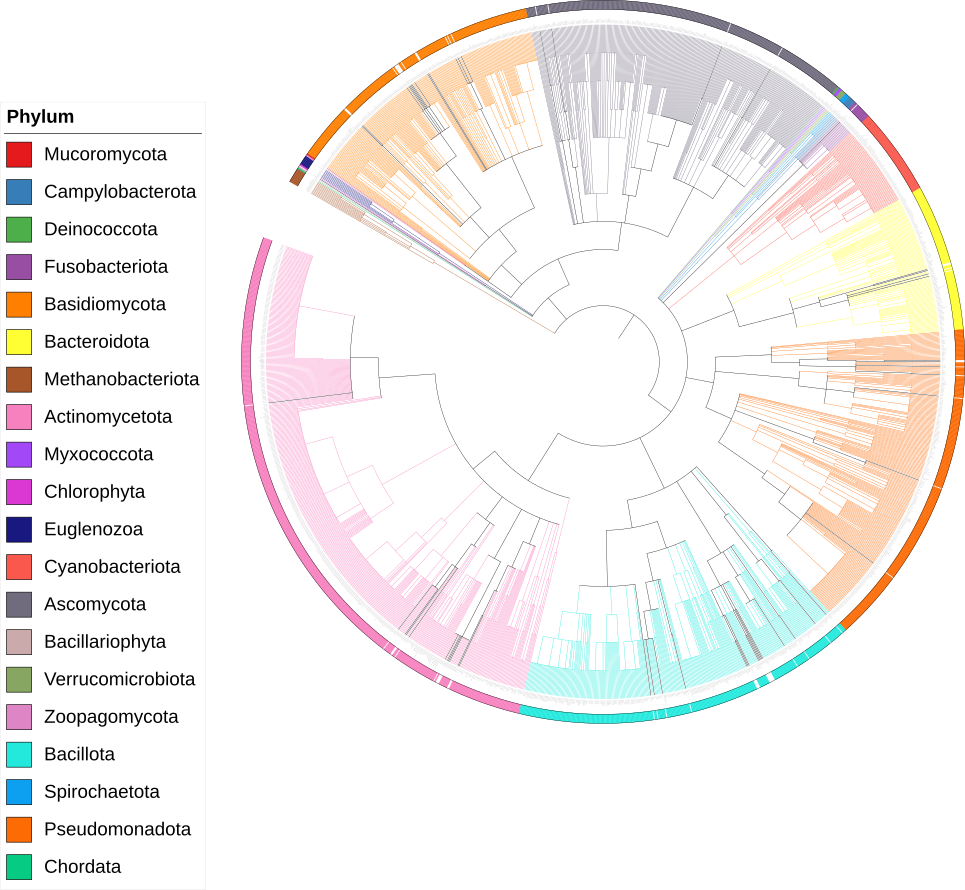
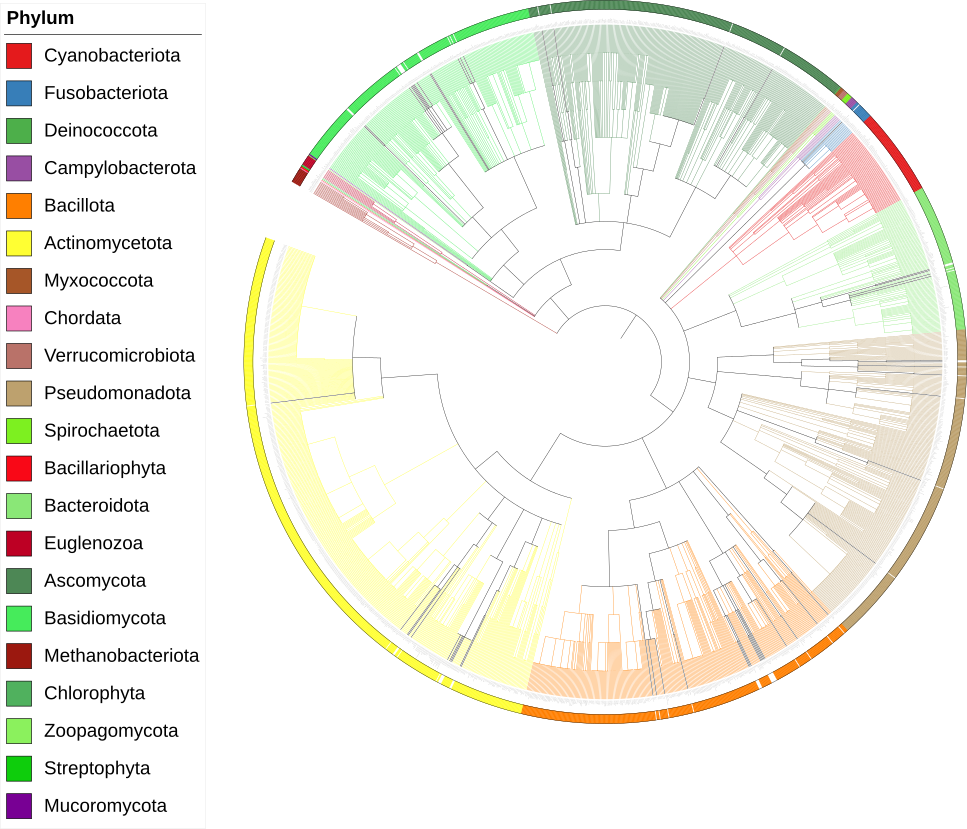
forgot import and updated figure

Changed region(s): [[0.2487, 0.0, 1.0, 0.8745], [0.0, 0.0, 0.2176, 0.9952]]

diff --git a/report/visualize_db_from_json.py b/report/visualize_db_from_json.py
@@ -2,6 +2,9 @@ import json
 from ete3 import Tree,NCBITaxa
 import argparse
 import random
+import matplotlib.pyplot as plt
+
+### TODO bug fix: in visualization if translated name contains a "in: " replace it with empty string as it messes up the syntax
 
 """
 Goal translate masst_tree.json to .nw files and create annotation file.
@@ -11,6 +14,7 @@ parser = argparse.ArgumentParser(description='Create Newick File for Visualizati
 parser.add_argument("--json", required=True, help='Path to the json file')
 parser.add_argument("--out_dir", "-o", required=True, help='Path to directory for output saving')
 parser.add_argument("--prefix", "-p", default="db", help='Prefix for filename')
+parser.add_argument("--color_map", "-cm", default="Set1", help='color map for tree coloring')
 args = parser.parse_args()
 
 # Load the JSON file
@@ -64,7 +68,71 @@ def get_phylum_name(ncbi, taxid:list):
     
     return None
 
-def create_annotation(out_dir:str, prefix: str, tree, ncbi):
+def create_annotation(out_dir:str, prefix: str,  tree, ncbi, color_map="Pastel1"):
+    """
+    Creates annotation file with random colors and annotates on phylum level
+    """
+    # Assign phylum names to leaf nodes
+    phylum_annotations = {}
+    for node in tree.traverse():
+        if node.is_leaf():  # Rename only leaf nodes
+            taxid = int(node.name)
+            phylum_name = get_phylum_name(ncbi, taxid)
+            node.name = ncbi.get_taxid_translator([taxid])[taxid]
+            if phylum_name:
+                phylum_annotations[node.name] = phylum_name
+
+    num_colors = len(set(phylum_annotations.values()))
+    cmap = plt.get_cmap(color_map)
+    colors = [cmap(i) for i in range(cmap.N-1)] # cmap.N size is + 1 for some reason
+    hex_colors = ["#{:02x}{:02x}{:02x}".format(int(r*255), int(g*255), int(b*255)) for r, g, b, _ in colors]
+     
+    # If there are more phyla than colors in the colormap, add random colors UNTESTED
+    if num_colors > cmap.N:
+        additional_colors = num_colors - len(colors)
+        for _ in range(additional_colors):
+            hex_colors.append("#{:06x}".format(random.randint(0, 0xFFFFFF)))
+
+    # Assign colors to each phylum
+    phylum_colors = {}
+    for phylum, color in zip(set(phylum_annotations.values()), hex_colors):
+        phylum_colors[phylum] = color
+
+
+    # # Generate random colors for each phylum
+    # phylum_colors = {}
+    # for phylum in set(phylum_annotations.values()):
+    #     phylum_colors[phylum] = "#{:06x}".format(random.randint(0, 0xFFFFFF)) #todo specify color palate
+
+    # Create the iTOL annotation file
+    with open(f"{out_dir}/{prefix}_itol_annotations.txt", "w") as f:
+        #f.write("\nTREE_COLORS\n")
+        f.write("DATASET_COLORSTRIP\n")
+        f.write("SEPARATOR TAB\n")
+        f.write("DATASET_LABEL\tPhylum Annotations\n")
+        f.write("COLOR\t#ff0000\n")
+        f.write("COLOR_BRANCHES\t1\n")
+        f.write("LEGEND_TITLE\tPhylum\n")
+        f.write("LEGEND_SHAPES\t{}\n".format("\t".join(["1"] * len(phylum_colors))))
+        f.write("LEGEND_COLORS\t{}\n".format("\t".join(phylum_colors.values())))
+        f.write("LEGEND_LABELS\t{}\n".format("\t".join(phylum_colors.keys())))
+        f.write("BORDER_WIDTH\t1\n")
+        f.write("BORDER_COLOR\t#000000\n")
+        f.write("SHOW_STRIP_LABELS\t1\n")
+        f.write("DATA\n")
+        f.write("#NODE_ID\tCOLOR\n")
+        for leaf_name, phylum_name in phylum_annotations.items():
+             f.write("{}\t{}\n".format(leaf_name, phylum_colors[phylum_name]))
+        
+        
+        # f.write("SEPARATOR TAB\n")
+        # f.write("DATA\n")
+        # f.write("#NODE_ID\tTYPE\tCOLOR\tLABEL_OR_STYLE\n")
+        # for leaf_name, phylum_name in phylum_annotations.items():
+        #     f.write("{}\trange\t{}\t{}\n".format(leaf_name, phylum_colors[phylum_name], phylum_name))
+
+
+def create_annotation_old(out_dir:str, prefix: str, tree, ncbi):
     """
     Creates annotation file with random colors and annotates on phylum level
     """
@@ -105,11 +173,11 @@ def create_annotation(out_dir:str, prefix: str, tree, ncbi):
 # create annotation
 ncbi = NCBITaxa()
 tree = Tree(f"{args.out_dir}/{args.prefix}_tree_from_json_taxID.nw")
-create_annotation(args.out_dir, args.prefix, tree, ncbi)
+create_annotation(args.out_dir, args.prefix, tree, ncbi, args.color_map)
 
 
 
-# python visualize_db_from_json.py --json "../data/microbe_masst_tree.json" -o "output" -p "microbe_json"
+# python visualize_db_from_json.py --json "../data/microbe_masst_tree.json" -o "output" -p "data_microbe_json"
 """
 /opt/conda/lib/python3.10/site-packages/ete3/ncbi_taxonomy/ncbiquery.py:243: UserWarning: taxid 335058 was translated into 93681
   warnings.warn("taxid %s was translated into %s" %(taxid, merged_conversion[taxid]))

diff --git a/report/visualize_database.py b/report/visualize_database.py
@@ -3,11 +3,13 @@ import pandas as pd
 from ete3 import NCBITaxa,Tree
 import argparse
 import random
+import matplotlib.pyplot as plt
 
 parser = argparse.ArgumentParser(description='Create Newick File for Visualization of the Taxnomic Tree.')
 parser.add_argument("--nw", required=True, help='Path to the newick file')
 parser.add_argument("--out_dir", "-o", required=True, help='Path to directory for output saving')
 parser.add_argument("--prefix", "-p", default="db", help='Prefix for filename')
+parser.add_argument("--color_map", "-cm", default="Set1", help='color map for tree coloring')
 args = parser.parse_args()
 
 # Path to your Newick file
@@ -55,7 +57,71 @@ def get_phylum_name(ncbi, taxid:list):
     
     return None
 
-def create_annotation(out_dir:str, prefix: str, tree, ncbi):
+def create_annotation(out_dir:str, prefix: str,  tree, ncbi, color_map="Pastel1"):
+    """
+    Creates annotation file with random colors and annotates on phylum level
+    """
+    # Assign phylum names to leaf nodes
+    phylum_annotations = {}
+    for node in tree.traverse():
+        if node.is_leaf():  # Rename only leaf nodes
+            taxid = int(node.name)
+            phylum_name = get_phylum_name(ncbi, taxid)
+            node.name = ncbi.get_taxid_translator([taxid])[taxid]
+            if phylum_name:
+                phylum_annotations[node.name] = phylum_name
+
+    num_colors = len(set(phylum_annotations.values()))
+    cmap = plt.get_cmap(color_map)
+    colors = [cmap(i) for i in range(cmap.N-1)] # cmap.N size is + 1 for some reason
+    hex_colors = ["#{:02x}{:02x}{:02x}".format(int(r*255), int(g*255), int(b*255)) for r, g, b, _ in colors]
+     
+    # If there are more phyla than colors in the colormap, add random colors UNTESTED
+    if num_colors > cmap.N:
+        additional_colors = num_colors - len(colors)
+        for _ in range(additional_colors):
+            hex_colors.append("#{:06x}".format(random.randint(0, 0xFFFFFF)))
+
+    # Assign colors to each phylum
+    phylum_colors = {}
+    for phylum, color in zip(set(phylum_annotations.values()), hex_colors):
+        phylum_colors[phylum] = color
+
+
+    # # Generate random colors for each phylum
+    # phylum_colors = {}
+    # for phylum in set(phylum_annotations.values()):
+    #     phylum_colors[phylum] = "#{:06x}".format(random.randint(0, 0xFFFFFF)) #todo specify color palate
+
+    # Create the iTOL annotation file
+    with open(f"{out_dir}/{prefix}_itol_annotations.txt", "w") as f:
+        #f.write("\nTREE_COLORS\n")
+        f.write("DATASET_COLORSTRIP\n")
+        f.write("SEPARATOR TAB\n")
+        f.write("DATASET_LABEL\tPhylum Annotations\n")
+        f.write("COLOR\t#ff0000\n")
+        f.write("COLOR_BRANCHES\t1\n")
+        f.write("LEGEND_TITLE\tPhylum\n")
+        f.write("LEGEND_SHAPES\t{}\n".format("\t".join(["1"] * len(phylum_colors))))
+        f.write("LEGEND_COLORS\t{}\n".format("\t".join(phylum_colors.values())))
+        f.write("LEGEND_LABELS\t{}\n".format("\t".join(phylum_colors.keys())))
+        f.write("BORDER_WIDTH\t1\n")
+        f.write("BORDER_COLOR\t#000000\n")
+        f.write("SHOW_STRIP_LABELS\t1\n")
+        f.write("DATA\n")
+        f.write("#NODE_ID\tCOLOR\n")
+        for leaf_name, phylum_name in phylum_annotations.items():
+             f.write("{}\t{}\n".format(leaf_name, phylum_colors[phylum_name]))
+        
+        
+        # f.write("SEPARATOR TAB\n")
+        # f.write("DATA\n")
+        # f.write("#NODE_ID\tTYPE\tCOLOR\tLABEL_OR_STYLE\n")
+        # for leaf_name, phylum_name in phylum_annotations.items():
+        #     f.write("{}\trange\t{}\t{}\n".format(leaf_name, phylum_colors[phylum_name], phylum_name))
+
+
+def create_annotation_old(out_dir:str, prefix: str, tree, ncbi):
     """
     Creates annotation file with random colors and annotates on phylum level
     """
@@ -92,7 +158,7 @@ def create_annotation(out_dir:str, prefix: str, tree, ncbi):
 
 ncbi = NCBITaxa()
 translate_tree(tree, args.out_dir, args.prefix, ncbi)
-create_annotation(args.out_dir, args.prefix, tree, ncbi)
+create_annotation(args.out_dir, args.prefix, tree, ncbi, args.color_map)
 
 # python visualize_database.py --nw "../trees/microbe_masst_tree/microbemasst_tree_raw.nw" -o "output" -p "db_microbe_raw"
 """
